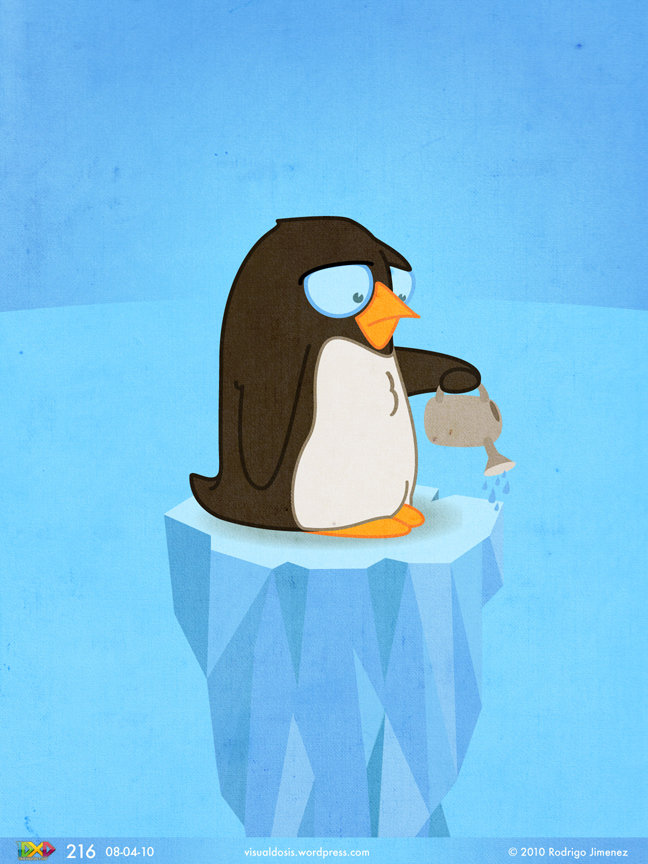
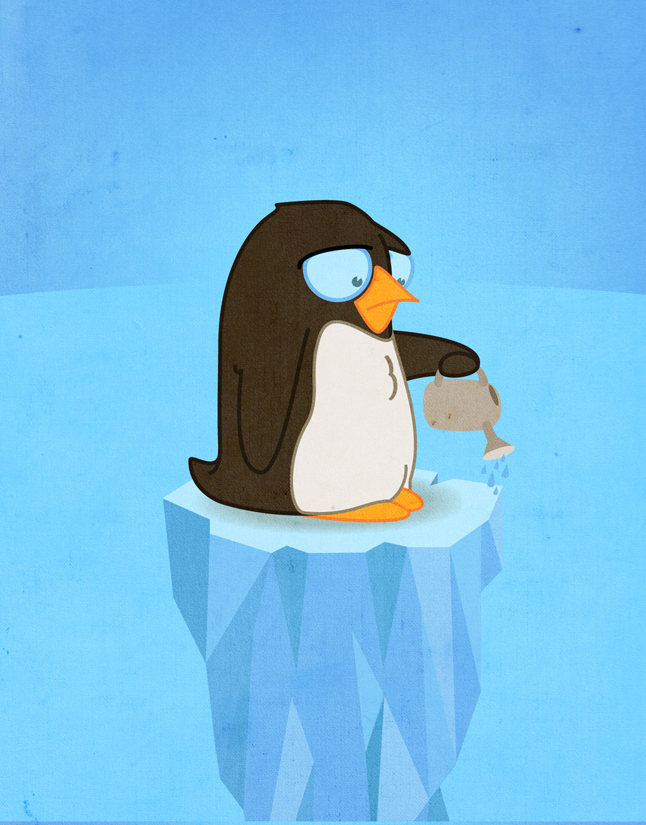
Updated the image size/position on the Home screen.

diff --git a/webapp/index.html b/webapp/index.html
@@ -63,7 +63,9 @@
                 <p>The name idea came in our search for originality. &quot;Bodhi&quot; is the sanscrit meaning of &quot;knowledge&quot; and &quot;enlightenment&quot;. So, &quot;Eco Bodhi&quot; application was originally planned to raise a flag about our environmental issues, how each one of us contributes to it ..but most of all, how we can make a difference in creating a better world.
                     Most of the information and images used in the app are not part of our creation, due to the scope of the project and the timeframe.
                 </p>
-				<img src="img/polarbear_ice_melting.jpg" style="margin-left: -10px;"></img>
+                <div style="margin-left: 120px;">
+				    <img src="img/polarbear_ice_melting.jpg" style="height: 420px; "></img>
+                </div>
             </div>
         </div>
 
